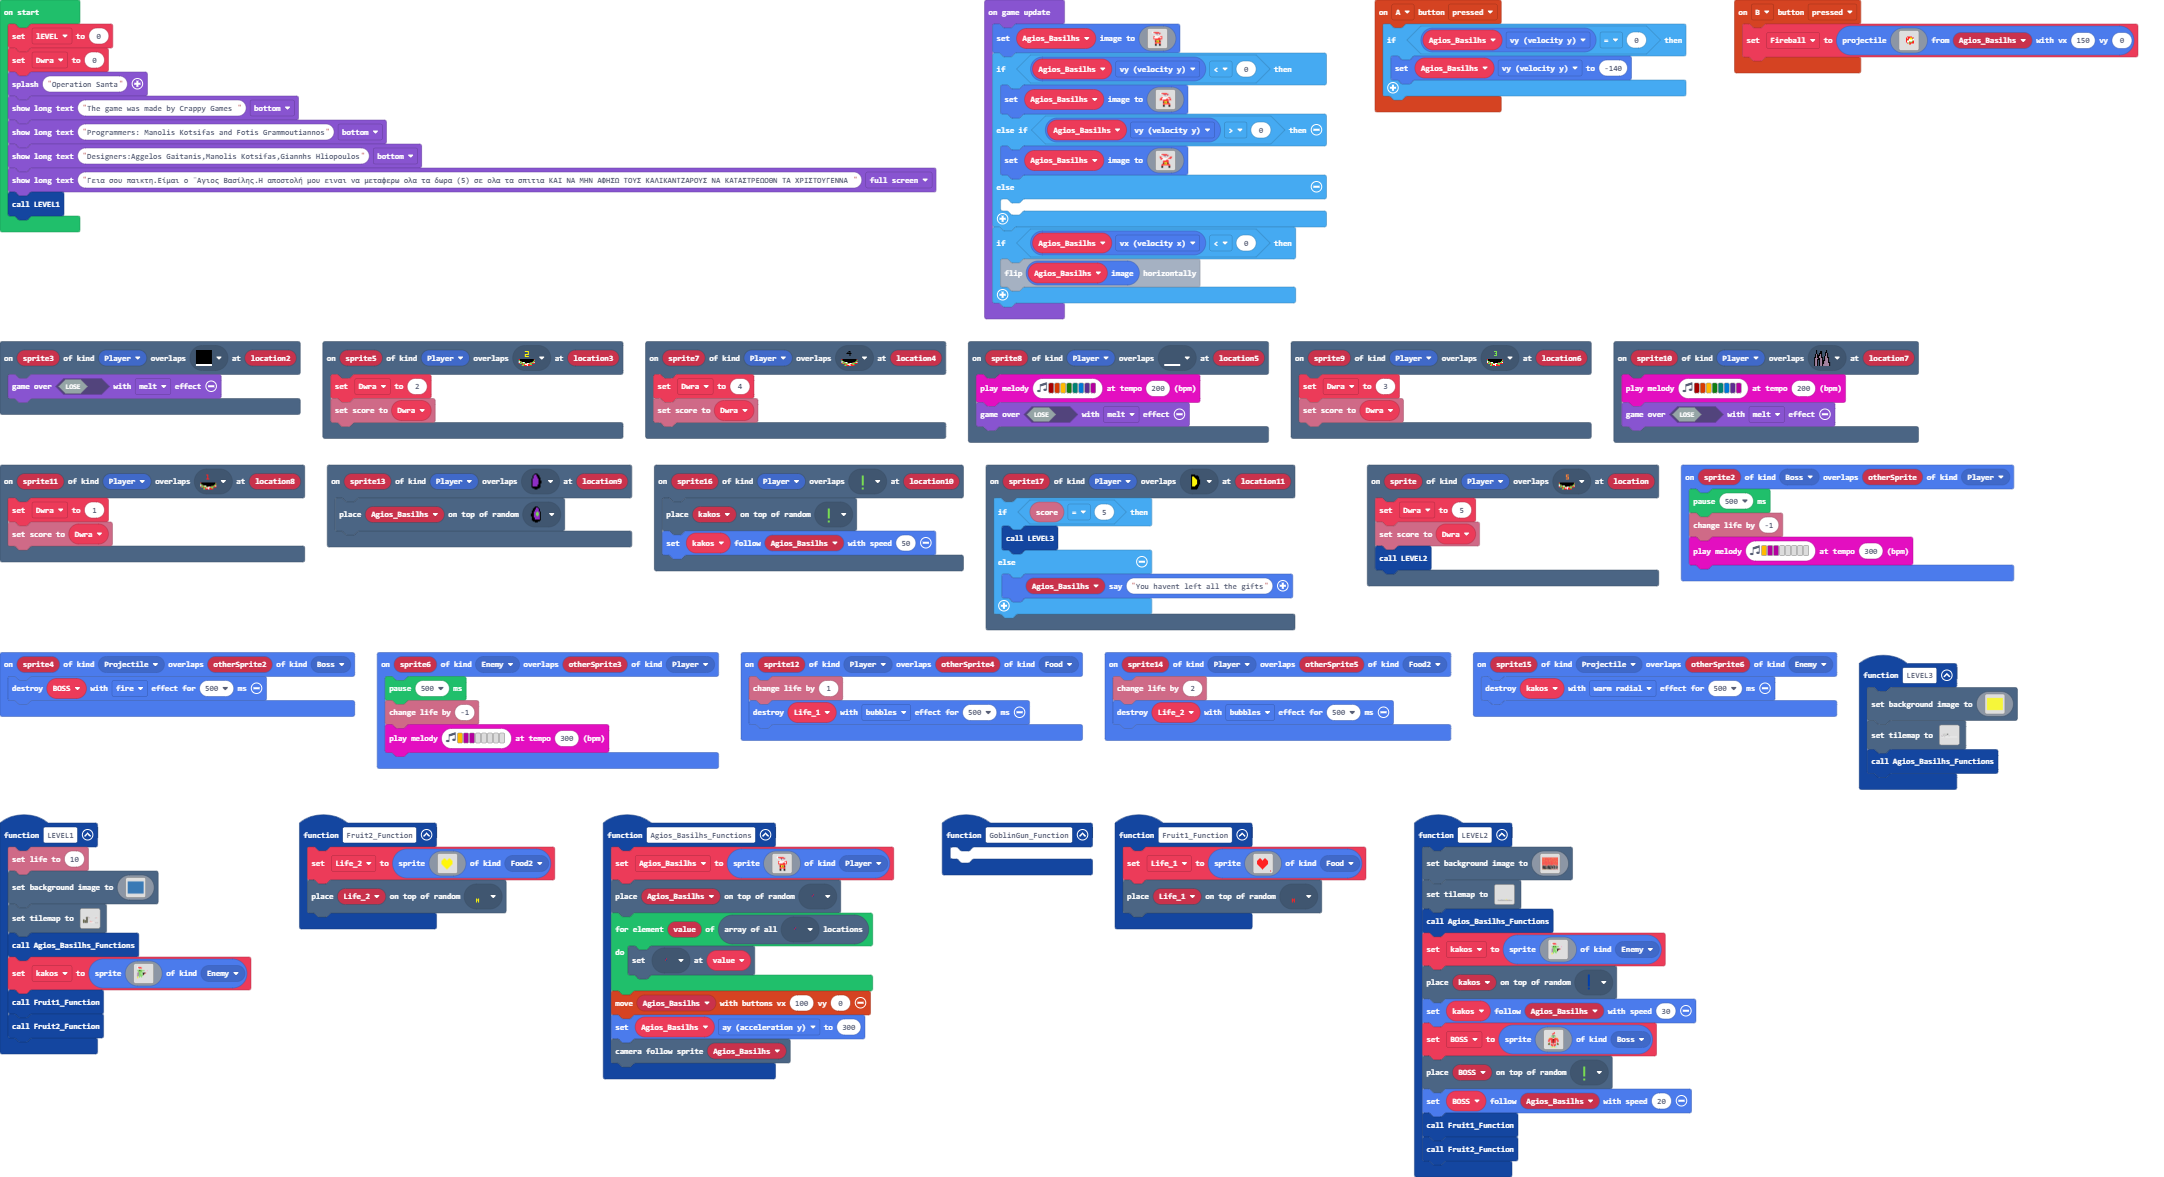
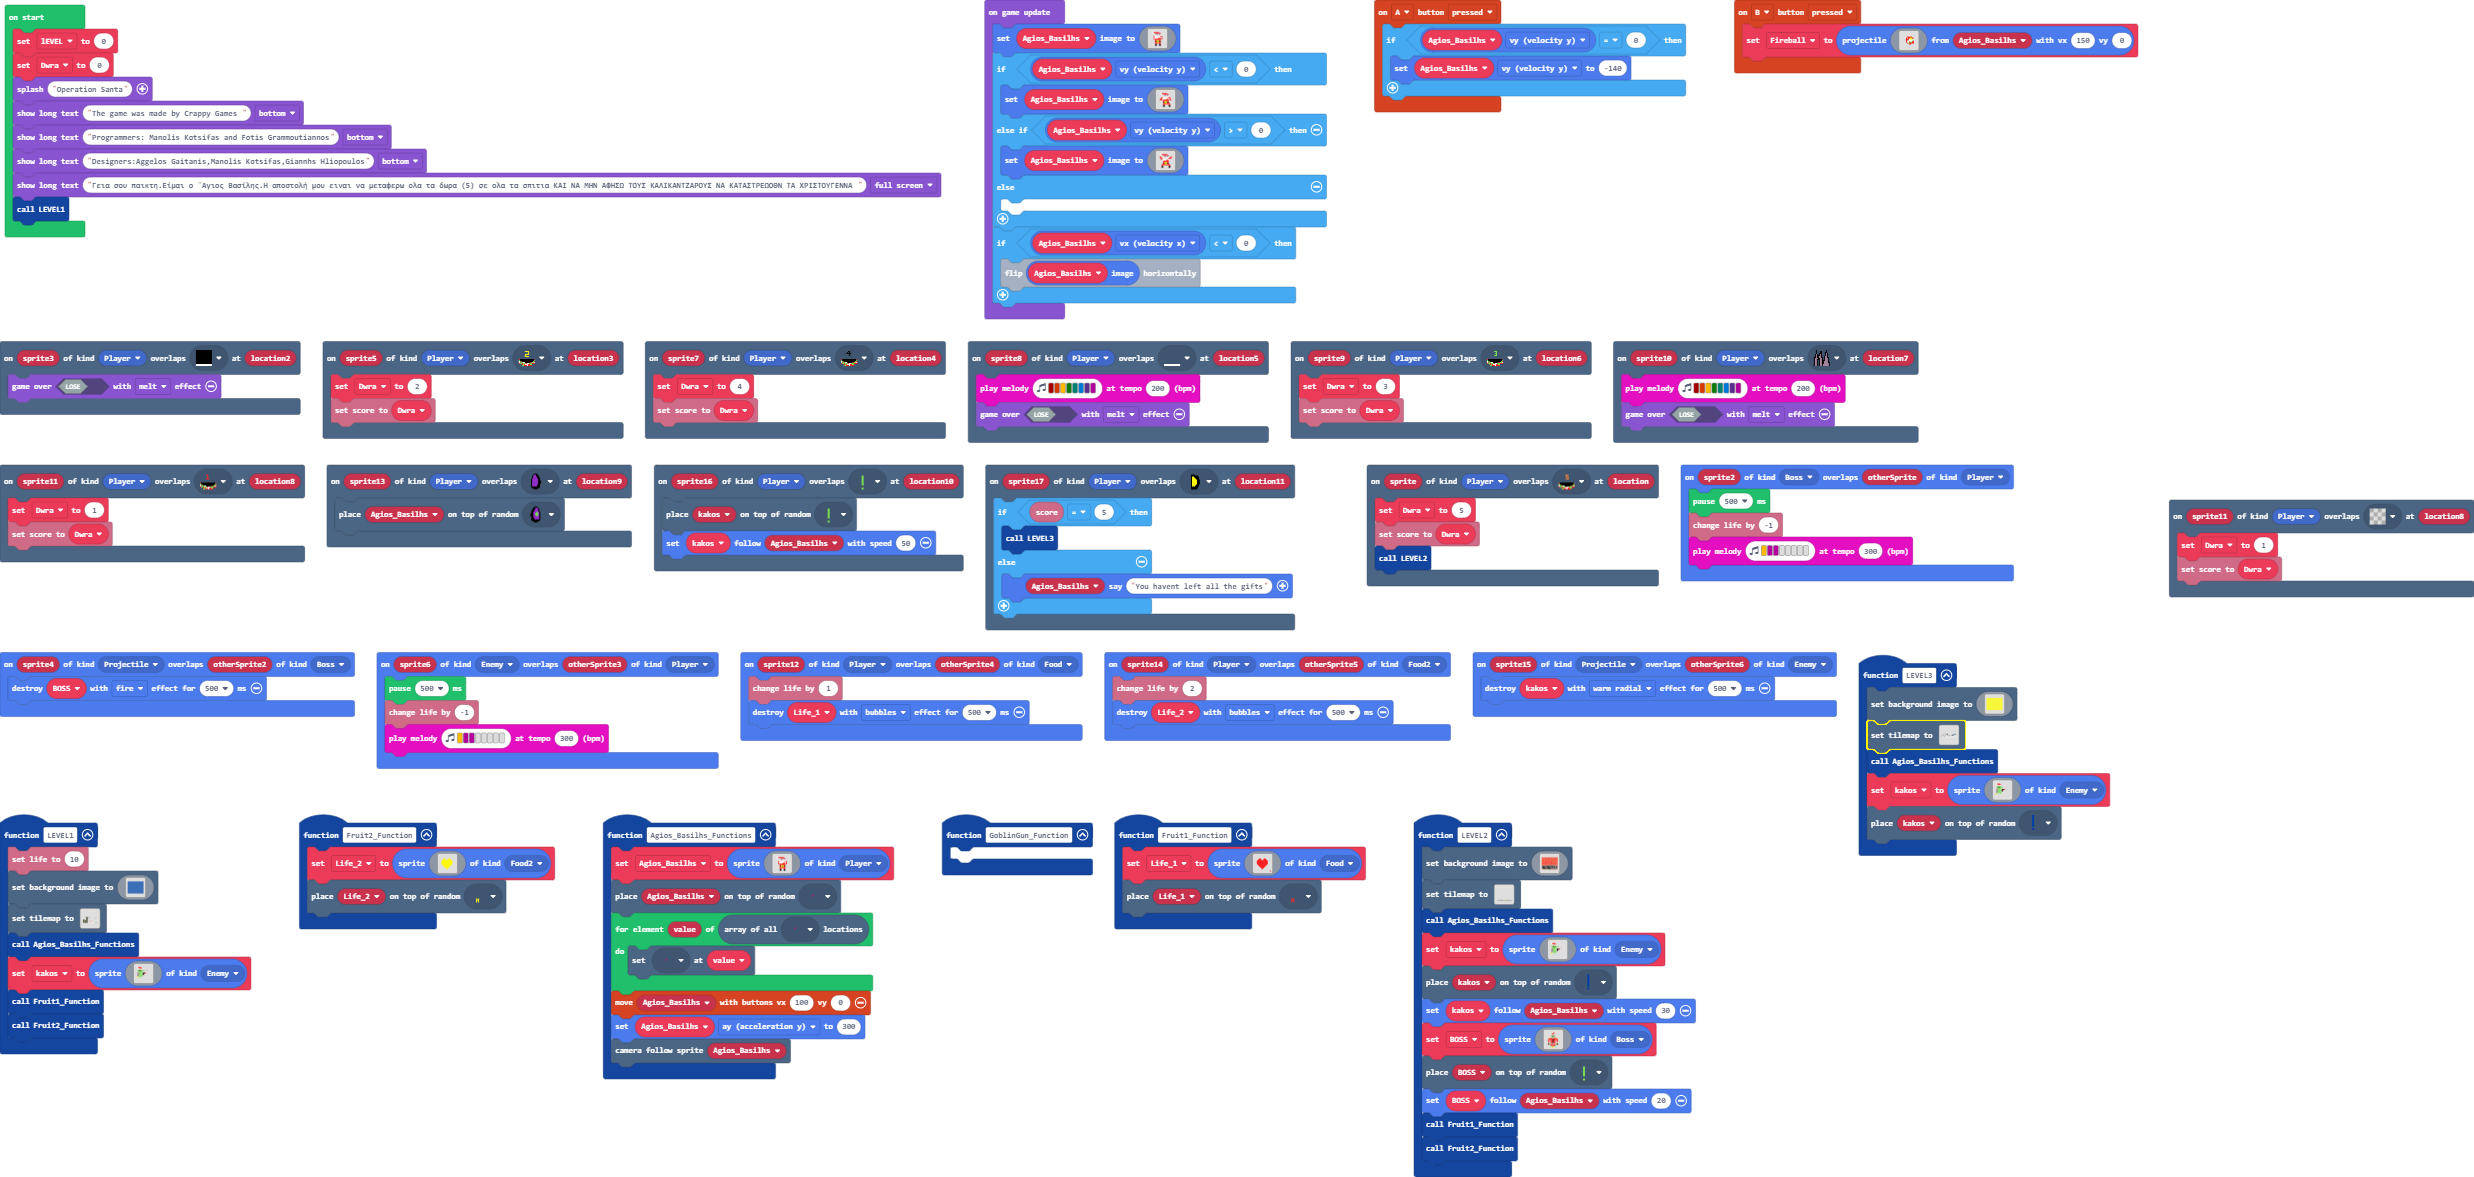
Update main.blocks, main.ts, tilemap.g.jres, tilemap.g.ts

diff --git a/tilemap.g.ts b/tilemap.g.ts
@@ -98,6 +98,16 @@ namespace myTiles {
     export const tile7 = image.ofBuffer(hex``);
     //% fixedInstance jres blockIdentity=images._tile
     export const tile48 = image.ofBuffer(hex``);
+    //% fixedInstance jres blockIdentity=images._tile
+    export const tile52 = image.ofBuffer(hex``);
+    //% fixedInstance jres blockIdentity=images._tile
+    export const tile53 = image.ofBuffer(hex``);
+    //% fixedInstance jres blockIdentity=images._tile
+    export const tile54 = image.ofBuffer(hex``);
+    //% fixedInstance jres blockIdentity=images._tile
+    export const tile56 = image.ofBuffer(hex``);
+    //% fixedInstance jres blockIdentity=images._tile
+    export const tile58 = image.ofBuffer(hex``);
 
     helpers._registerFactory("tilemap", function(name: string) {
         switch(helpers.stringTrim(name)) {
@@ -139,25 +149,6 @@ namespace myTiles {
 . . . . . . . . . . . . . . . . 
 . . . . . . . . . . . . . . . . 
 `, [myTiles.transparency16], TileScale.Sixteen);
-            case "level5":
-            case "level5":return tiles.createTilemap(hex`320010000000000000000000000000000000000000000000000000000000000000000000000000000000000000000000000000000000000000000000000000000000000000000000000000000000000000000000000000000000000000000000000000000000000000000000000000000000000000000000000000000000000000000000000000000000000000000000000000000000000000000000000000000000000000000000000000000000000000000000000000000000000000000000000000000000000000000000000000000000000000000000000000000000040000000000000000000000000000000000000000000000000000000000000000000000000000000000000000000000000000000100000000000000000000000000000000000000000000000000000000000000000000020000020200020004000004000000010000000000000000000000000000000000000000000000000000000000000000000000000000000000000000000000030301000000000000000000000000000000000000000000000000000000000000000000000002000000000000000000000002020200000000000000000000000000000000000000000000000000000000000000000000000000000000000000000000020000000000000000000000000000000000000000000000000000000000000000000500000000000202000002000000020000000000000000000000000000000000000000000000000000000000000000000000000000000000000000000000020000000000000000000000000000000000000000000000000000000000000000000000000000000000020000000000000000000000000000000004000002000000000000000000000000000000000000000000000000000202020000000000000002000000000000000000000000000000000000000000000000000000000000000000000000000000000000000000000200000000000000000000000000000000000000000000000000000000000000000000000000000000000606060606060606060602060606060606060606060606060606060606060606060606060606060606060606060606060606`, img`
-..................................................
-..................................................
-..................................................
-..................................................
-..................2...............................
-....................2.............................
-.....2..22.2.2..2...2.............................
-....................2.............................
-......2...........222.............................
-.................2................................
-.......22..2...2..................................
-.............2....................................
-.....2................2..2........................
-.222.......2......................................
-........2.........................................
-..........2.......................................
-`, [myTiles.transparency16,myTiles.tile4,myTiles.tile3,myTiles.tile7,myTiles.tile47,myTiles.tile12,myTiles.tile10], TileScale.Sixteen);
             case "level4":
[1 lines of base64/hex data omitted]
 ..................................................
@@ -264,6 +255,25 @@ namespace myTiles {
 ..........................................................................................
 ..........................................................................................
 `, [myTiles.transparency16,myTiles.tile4,myTiles.tile5,myTiles.tile6,myTiles.tile2,myTiles.tile3,myTiles.tile8,myTiles.tile9,myTiles.tile10,myTiles.tile7,myTiles.tile11,myTiles.tile12,myTiles.tile13,myTiles.tile15,myTiles.tile14,myTiles.tile18,myTiles.tile19,myTiles.tile20,myTiles.tile21,myTiles.tile22,myTiles.tile23,myTiles.tile24,myTiles.tile25,myTiles.tile26,myTiles.tile27,myTiles.tile28,myTiles.tile29,myTiles.tile31,myTiles.tile32,myTiles.tile33,myTiles.tile16,myTiles.tile17,myTiles.tile34,myTiles.tile35,myTiles.tile36,myTiles.tile39,myTiles.tile41,myTiles.tile46,myTiles.tile48], TileScale.Sixteen);
+            case "level5":
[1 lines of base64/hex data omitted]
+..................................................
+..................................................
+..................................................
+..................................................
+..................2...............................
+....................2.............................
+.....2..22.2.2..2...2.............................
+....................2................22222222222..
+......2...........222..............2..............
+.................2............2.....2.............
+.......22..2...2.........22............2..........
+.............2..............2...2222222...........
+.....2................2..22.......................
+.222.......2......................................
+........2.........................................
+..........2.......................................
+`, [myTiles.transparency16,myTiles.tile4,myTiles.tile3,myTiles.tile7,myTiles.tile47,myTiles.tile12,myTiles.tile10,myTiles.tile40,myTiles.tile52,myTiles.tile53,myTiles.tile54,myTiles.tile56,myTiles.tile58], TileScale.Sixteen);
         }
         return null;
     })
@@ -367,6 +377,16 @@ namespace myTiles {
             case "tile7":return tile7;
             case "myTile41":
             case "tile48":return tile48;
+            case "Kaminada 4":
+            case "tile52":return tile52;
+            case "Kaminada 6":
+            case "tile53":return tile53;
+            case "Kaminada 7":
+            case "tile54":return tile54;
+            case "Kaminada 9":
+            case "tile56":return tile56;
+            case "Kaminada 10":
+            case "tile58":return tile58;
         }
         return null;
     })

diff --git a/main.ts b/main.ts
@@ -80,6 +80,10 @@ scene.onOverlapTile(SpriteKind.Player, assets.tile`myTile30`, function (sprite17
         Agios_Basilhs.sayText("You havent left all the gifts")
     }
 })
+scene.onOverlapTile(SpriteKind.Player, assets.tile`transparency16`, function (sprite11, location8) {
+    Dwra = 1
+    info.setScore(Dwra)
+})
 sprites.onOverlap(SpriteKind.Player, SpriteKind.Food, function (sprite12, otherSprite4) {
     info.changeLifeBy(1)
     Life_1.destroy(effects.bubbles, 500)
@@ -624,6 +628,29 @@ function LEVEL3 () {
         `)
     tiles.setTilemap(tilemap`level5`)
     Agios_Basilhs_Functions()
+    kakos = sprites.create(img`
+        ....................
+        ..1.................
+        ..12222.............
+        ..1.2222............
+        ....1111............
+        ....7777............
+        ..77f7f7777...3.....
+        ...77777............
+        ...b77777...........
+        ..bb77...fff2.......
+        ..bb77777f2.........
+        ..bb777..f..........
+        ..bb77777...........
+        ..b.7.77............
+        ..5.7..7............
+        ..5.................
+        ....................
+        ....................
+        ....................
+        ....................
+        `, SpriteKind.Enemy)
+    tiles.placeOnRandomTile(kakos, assets.tile`myTile33`)
 }
 scene.onOverlapTile(SpriteKind.Player, assets.tile`myTile7`, function (sprite3, location2) {
     game.over(false, effects.melt)
